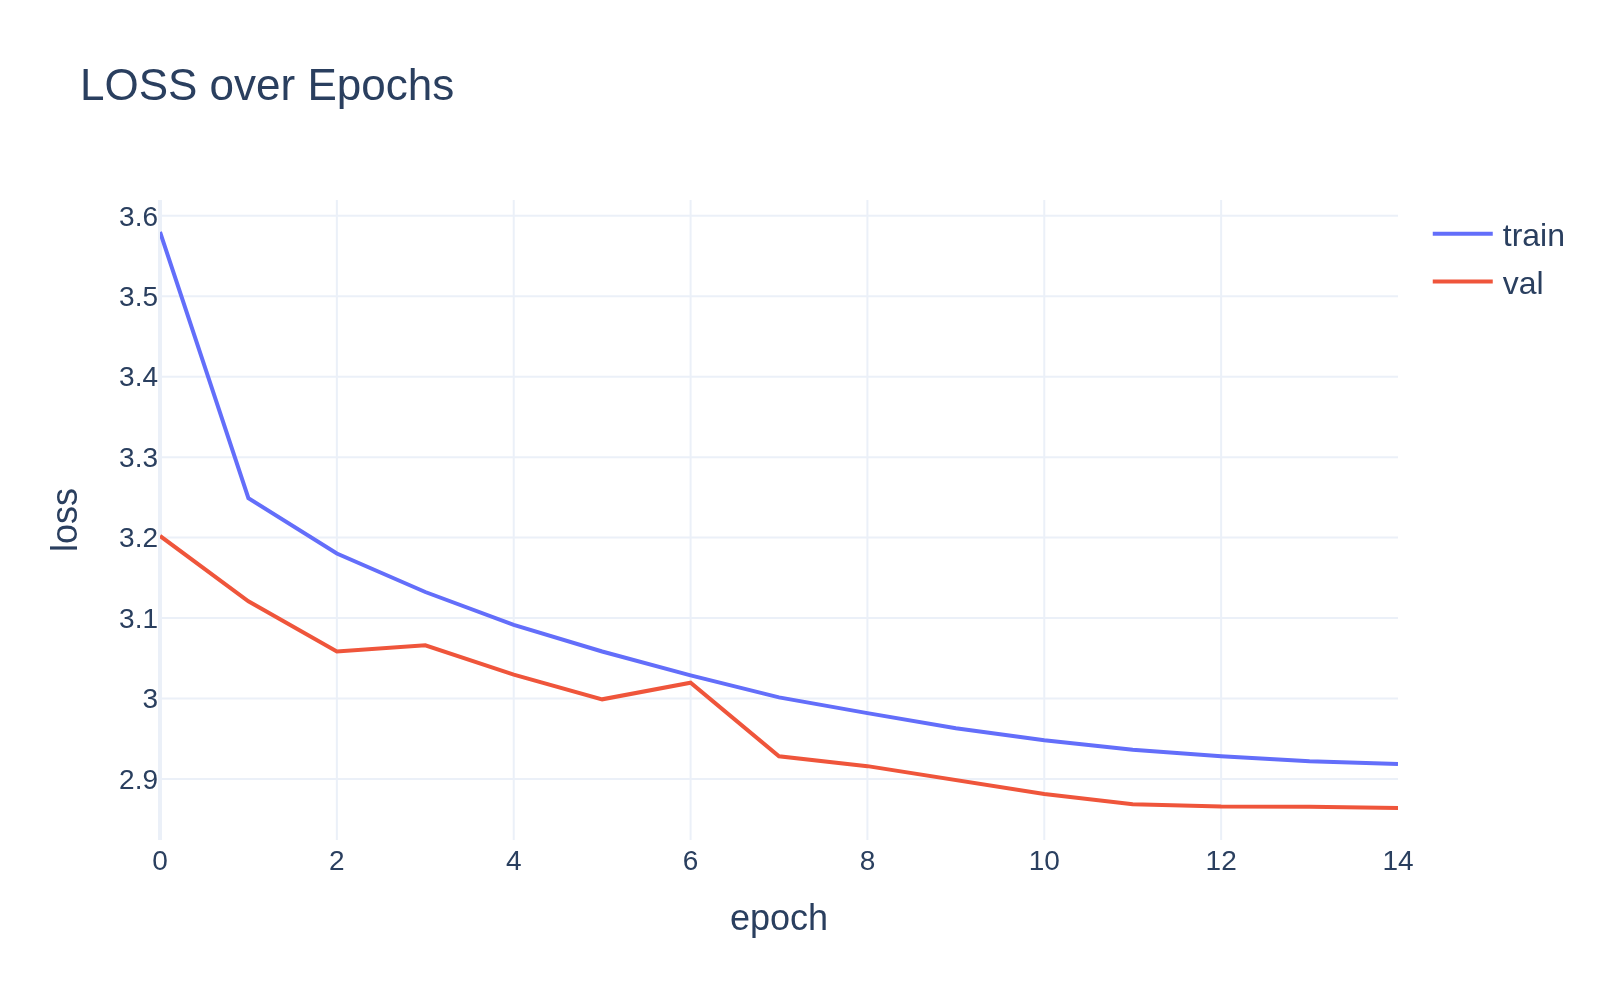
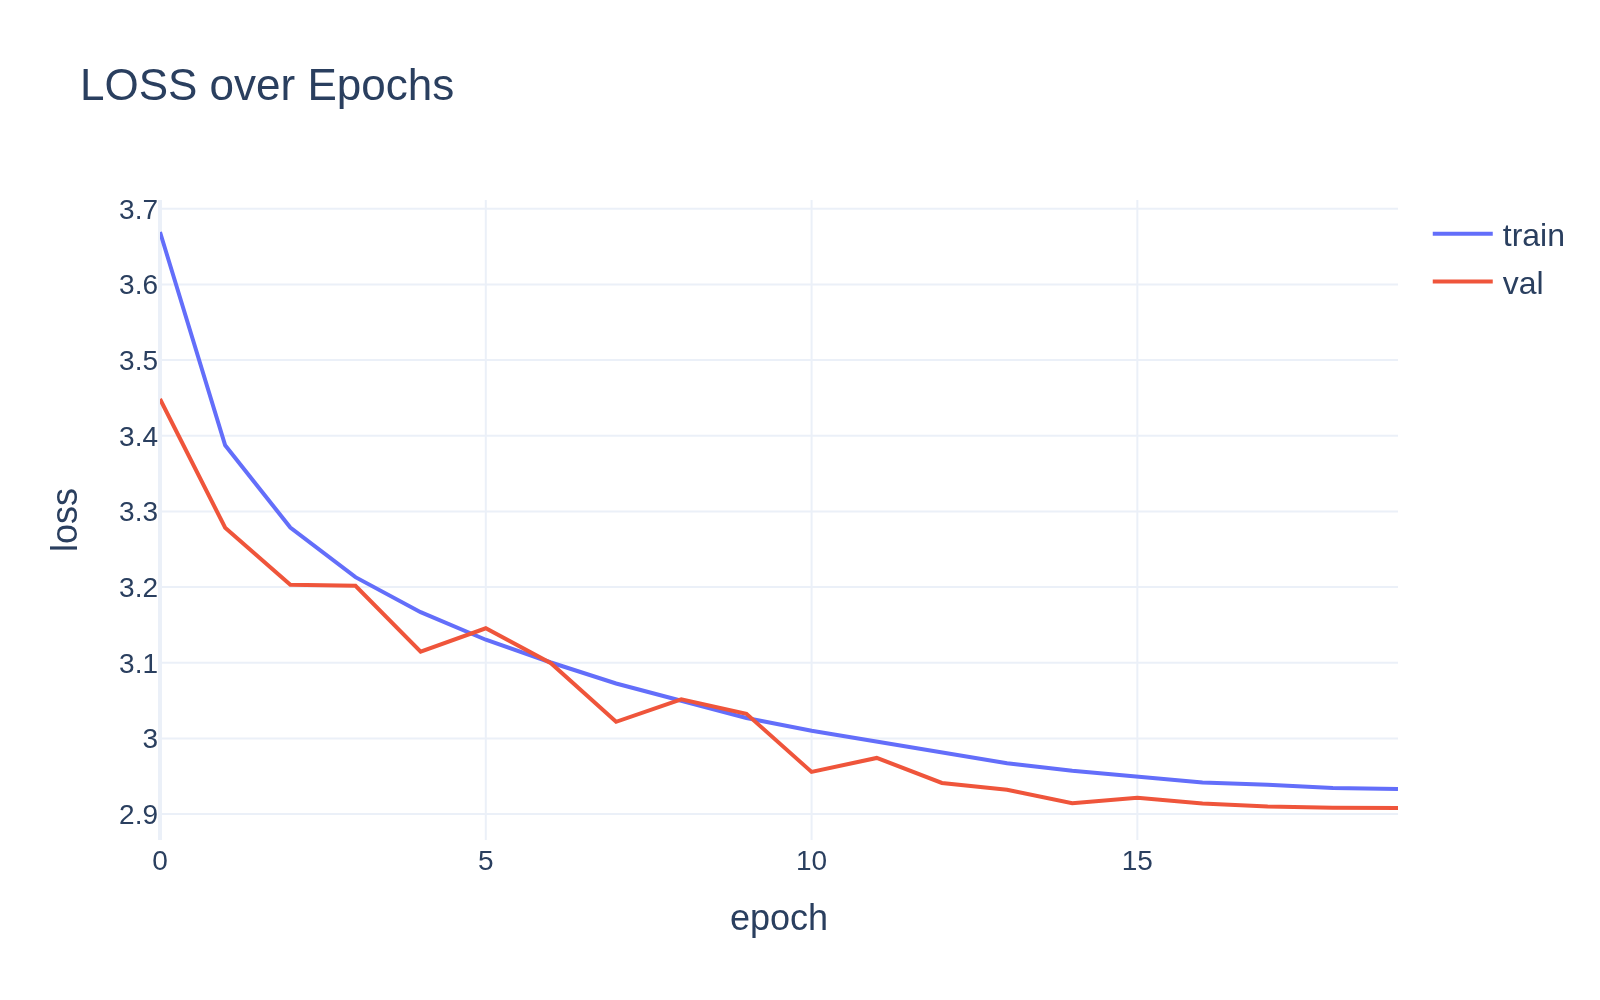
updating latest trained model curve snapshots and adding a script to dig the values out of the logs

diff --git a/src/test/python/movie_lens_ranker/train_logs_parser.py b/src/test/python/movie_lens_ranker/train_logs_parser.py
@@ -1,0 +1,70 @@
+import re
+import json
+
+## for recovering train, val curves from the training logs if forgot to set metrics_uri for train phase.
+# (1) cat train_output.log | grep NDCG@20 >& tmp_metrics.txt
+# (2) python3 train_logs_parser
+
+def parse_metrics(input_filepath, output_filepath):
+    # Initialize the dictionary to match the target JSON structure
+    metrics = {
+        "train_loss": {"x": [], "y": []},
+        "train_mrr_20": {"x": [], "y": []},
+        "train_ndcg_20": {"x": [], "y": []},
+        "train_recall_20": {"x": [], "y": []},
+        "val_loss": {"x": [], "y": []},
+        "val_mrr_20": {"x": [], "y": []},
+        "val_ndcg_20": {"x": [], "y": []},
+        "val_recall_20": {"x": [], "y": []}
+    }
+
+    # Regex pattern to capture the epoch and all 8 metric values
+    # Note: Handles the missing space in "...recall_20 {val}avg val loss..."
+    pattern = re.compile(
+        r"Epoch (\d+): Train avg Loss ([\d.]+) \| "
+        r"train NDCG@20 ([\d.]+) \| train MRR@20 ([\d.]+) \| "
+        r"train recall_20 ([\d.]+)avg val loss ([\d.]+) \| "
+        r"val NDCG@20 ([\d.]+) \| val MRR@20 ([\d.]+) \| "
+        r"val recall_20 ([\d.]+)"
+    )
+
+    # Read the text file and parse line by line
+    with open(input_filepath, 'r') as file:
+        for line in file:
+            match = pattern.search(line)
+            if match:
+                epoch = int(match.group(1))
+
+                # Append the epoch (x) and casted float metric (y) to their respective lists
+                metrics["train_loss"]["x"].append(epoch)
+                metrics["train_loss"]["y"].append(float(match.group(2)))
+
+                metrics["train_ndcg_20"]["x"].append(epoch)
+                metrics["train_ndcg_20"]["y"].append(float(match.group(3)))
+
+                metrics["train_mrr_20"]["x"].append(epoch)
+                metrics["train_mrr_20"]["y"].append(float(match.group(4)))
+
+                metrics["train_recall_20"]["x"].append(epoch)
+                metrics["train_recall_20"]["y"].append(float(match.group(5)))
+
+                metrics["val_loss"]["x"].append(epoch)
+                metrics["val_loss"]["y"].append(float(match.group(6)))
+
+                metrics["val_ndcg_20"]["x"].append(epoch)
+                metrics["val_ndcg_20"]["y"].append(float(match.group(7)))
+
+                metrics["val_mrr_20"]["x"].append(epoch)
+                metrics["val_mrr_20"]["y"].append(float(match.group(8)))
+
+                metrics["val_recall_20"]["x"].append(epoch)
+                metrics["val_recall_20"]["y"].append(float(match.group(9)))
+
+    # Export the populated dictionary to a JSON file
+    with open(output_filepath, 'w') as json_file:
+        json.dump(metrics, json_file)
+        print(f"Metrics successfully parsed and saved to {output_filepath}")
+
+if __name__ == "__main__":
+    # Ensure tt_metrics.txt is in the same directory as this script
+    parse_metrics("tmp_metrics.txt", "metrics.json")

diff --git a/export_src/test/python/movie_lens_ranker_export/test_export.py b/export_src/test/python/movie_lens_ranker_export/test_export.py
@@ -13,9 +13,7 @@ class ExportTest(unittest.TestCase):
 
         checkpoint_uri = os.path.join(get_project_dir(),
                 "src/test/resources/checkpoint-bucket/best/kaggle-hpo/train_0/")
-        #checkpoint_uri = os.path.join(get_project_dir(),
-        #    "tmp_mounts/fake-gcs-server/checkpoint-bucket/best/GraphRanker_tuning_unittest4/train_2345/")
-
+        
         checkpoint_uri = os.path.abspath(checkpoint_uri)
         savedmodel_dir = os.path.join(get_bin_dir(), "savedmodels", "1")
         try:
